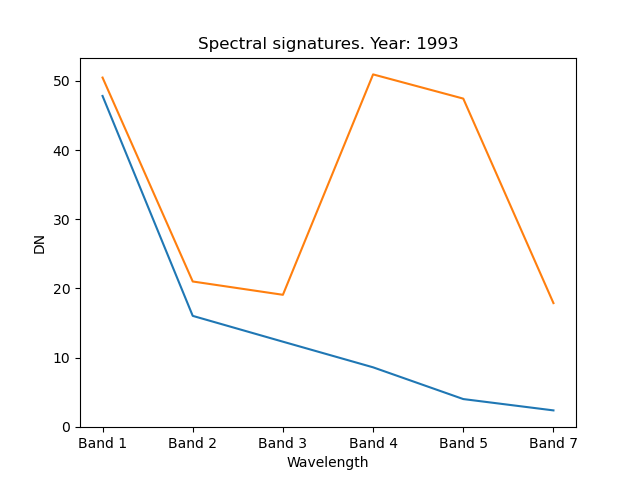
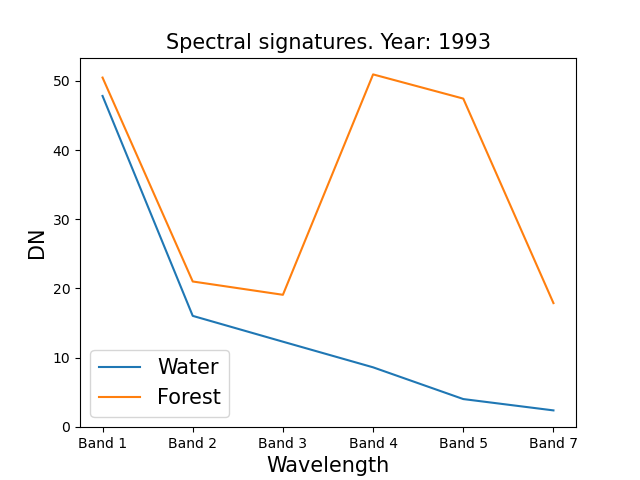
cropped images

diff --git a/SpectralSignatures.py b/SpectralSignatures.py
@@ -35,11 +35,11 @@ all_bands = np.stack([bands[0],bands[1],bands[2],bands[3],bands[4],bands[5]])
 
 ### True/False color composites
 # -----------------------------------------------------------------------------
-
+'''
 func.ColorComposition(bands=all_bands, yr=yr)
 func.ColorComposition(bands=all_bands, yr=yr, r=5, g=2, b=1)
 func.ColorComposition(bands=all_bands, yr=yr, r=3, g=2, b=1) # Veg. health?
-
+'''
 
 ### Spectral signatures
 # -----------------------------------------------------------------------------
@@ -70,10 +70,10 @@ band_list = ['Band 1','Band 2','Band 3','Band 4','Band 5','Band 7']
 
 plt.plot(band_list, water, label='Water')
 plt.plot(band_list, forest, label='Forest')
-plt.title("Spectral signatures. Year: %s" %yr)
-plt.xlabel("Wavelength"); plt.ylabel("DN")
-plt.savefig("Results/band_list_%s.png" %yr) # Maa sikkert endre navn
-plt.legend(); plt.show()
+plt.title("Spectral signatures. Year: %s" %yr, fontsize=15)
+plt.xlabel("Wavelength", fontsize=15); plt.ylabel("DN", fontsize=15)
+plt.legend(fontsize=15)
+plt.savefig("Results/band_list_%s.png" %yr); plt.show()
 
 
 
